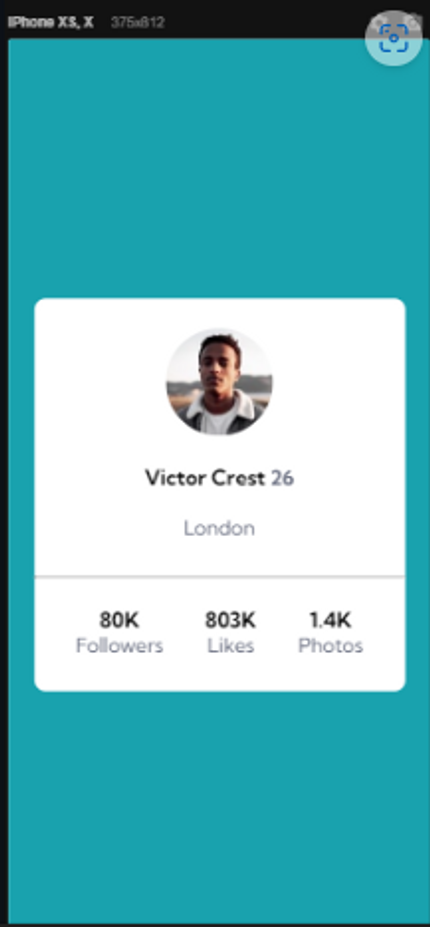
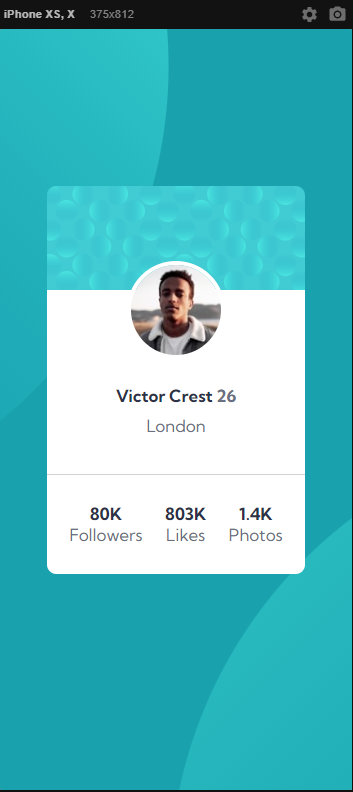
refectored the project, modified index.html and style.css and change the design pictures

Changed region(s): [[0.0, 0.0, 1.0, 1.0]]

diff --git a/src/css/style.css b/src/css/style.css
@@ -1,8 +1,10 @@
 @import url('https://fonts.googleapis.com/css2?family=Kumbh+Sans:wght@400;700&display=swap');
 
 body {
+    background-image: url(../images/bg-pattern-top.svg), url(../images/bg-pattern-bottom.svg);
     background-color: var(--main-bg-color);
-    background: var(--main-bg-color) no-repeat top left;
+    background-position: right 52vw bottom 35vh, left 48vw top 52vh;
+    background-repeat: no-repeat, no-repeat;
     font-family: 'Kumbh Sans', sans-serif;
     font-size: 18px;
 }
@@ -17,7 +19,7 @@ main.container {
     position: relative;
 }
 
-.bg-top-pattern {
+/* .bg-top-pattern {
     position: absolute;
     top: -65%;
     right: 50%;
@@ -29,7 +31,7 @@ main.container {
     bottom: -60%;
     left: 50%;
     z-index: 1;
-}
+} */
 
 .profile-card {
     display: flex;

diff --git a/index.html b/index.html
@@ -13,13 +13,13 @@
 </head>
 <body>
     <main class="container">
-        <div class="bg-top-pattern">
+        <!-- <div class="bg-top-pattern">
             <img src="./src/images/bg-pattern-top.svg" alt="Background top sphere pattern">
         </div>
 
         <div class="bg-bottom-pattern">
             <img src="./src/images/bg-pattern-top.svg" alt="Background bottom sphere pattern">
-        </div>
+        </div> -->
 
         <div class="profile-card">
             <div class="card-background">
